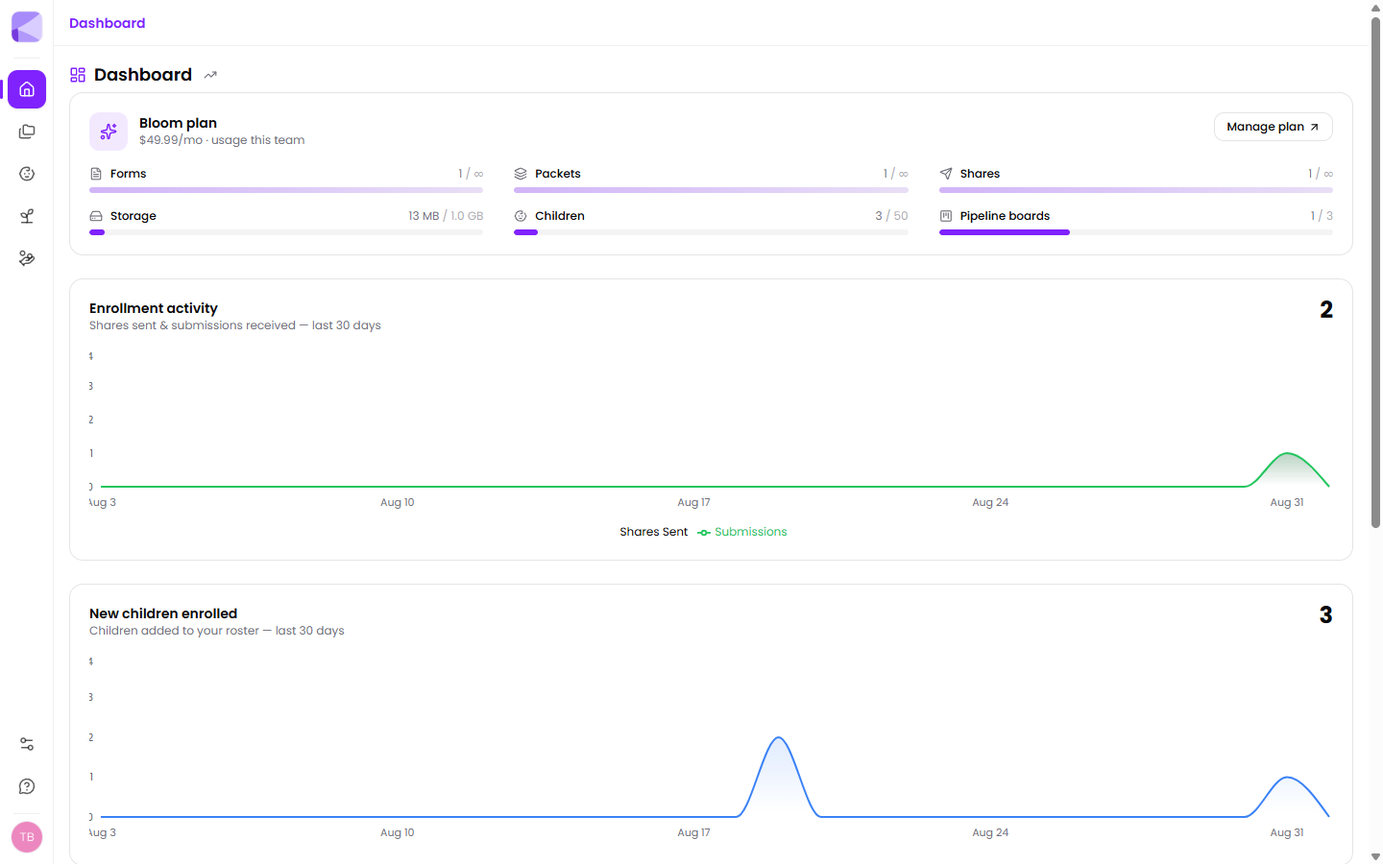
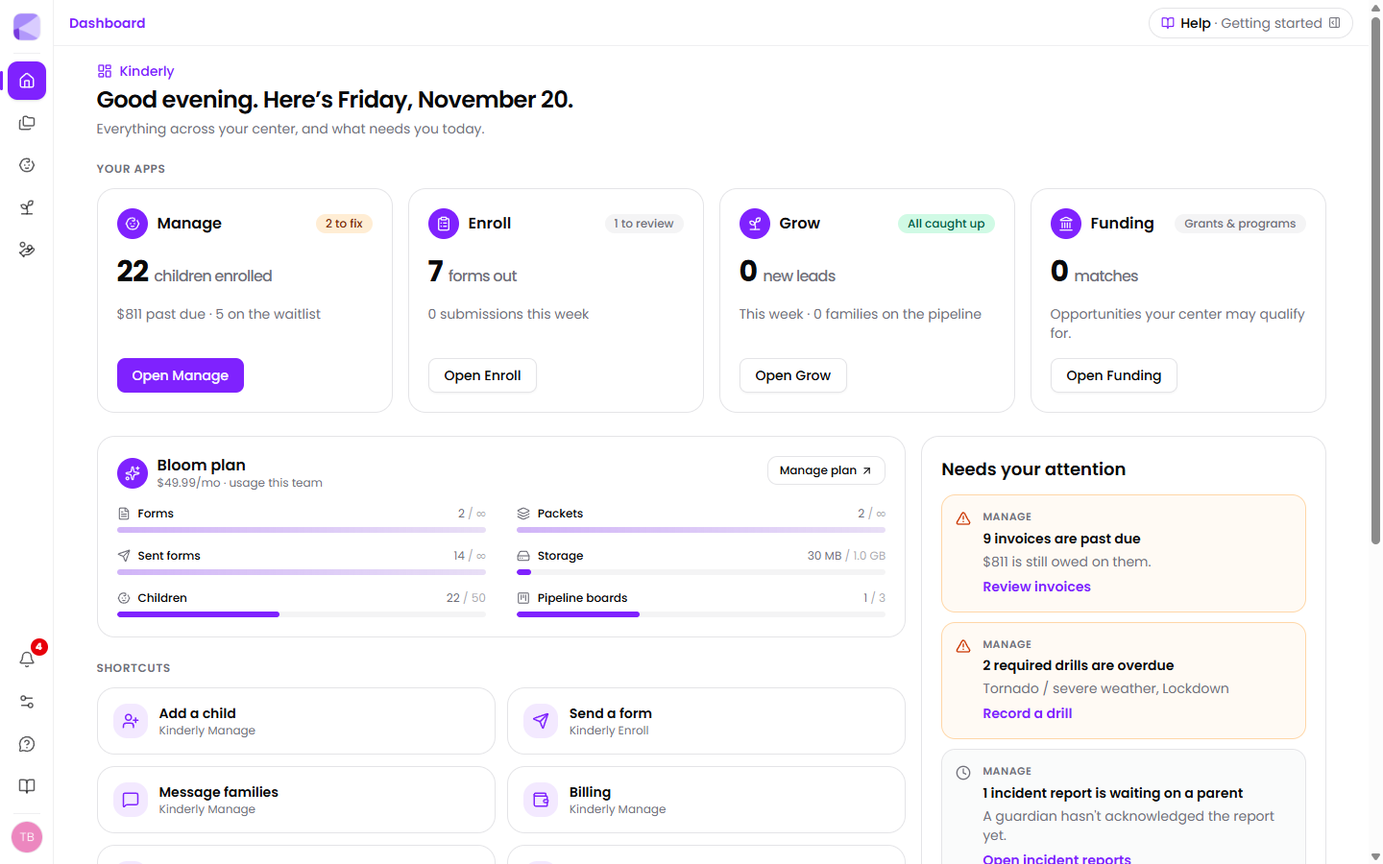
Add documentation for Facebook Page and Google Business Profile integrations
- Created a new document for Facebook Page integration detailing connection steps, posting guidelines, and troubleshooting tips.
- Added a new document for Google Business Profile integration outlining setup instructions, syncing details, and analytics insights.

diff --git a/src/content/docs/grow/analytics.md b/src/content/docs/grow/analytics.md
@@ -26,6 +26,45 @@ sidebar:
 
 **Review with Ellie** asks the assistant to interpret the numbers rather than leaving you to read charts.
 
+## Where families come from
+
+Page views tell you people visited. **Where families come from** tells you which marketing produced enrolled children, and what each one cost.
+
+![Where families come from: families enrolled, their yearly tuition, ad spend and cost per enrollment, broken down by channel](../../../assets/screenshots/grow-lead-sources.png)
+
+For each channel (Google Ads, Facebook / Instagram ads, Google search, Google Business Profile, child care directories, email, print and QR codes, events, word of mouth and more) it counts:
+
+- **Form visits**: families who opened one of your Kinderly forms
+- **Sent**: those who submitted it
+- **Waitlisted**: families added to your [waitlist](/manage/waitlist/) from that channel
+- **Enrolled**: children enrolled from it
+- **Yearly tuition**: what those enrollments bring in a year, from each room's seat value (see [Waitlist → What an open seat costs](/manage/waitlist/#what-an-open-seat-costs))
+- **Spend** and **Per enrollment**: once you enter what you spent
+
+Kinderly tracks a family from their first visit. It reads the link they arrived on (its UTM tags or ad click) or the site that sent them, and keeps that source with them through the form, the waitlist and enrollment. Families are tracked when they reach a form through:
+
+- your **Grow site** (any button or Kinderly form section that opens a form)
+- the **embed code** on your own website, or a **tracked link** (both on the form's page under Sent Forms, see [Putting a form on your website](/shares/sending/#putting-a-form-on-your-website))
+- a waitlist family you tagged with **How did they hear about you?** when adding them by hand
+
+Families who reached you some other way, such as an emailed link or a walk-in nobody tagged, aren't counted. The card tells you how many enrolled children had no tracked source.
+
+**Campaigns** lists the campaign names on your tracked links and ads (the `utm_campaign` tag) with their visits, waitlist families and enrollments, so you can compare one ad or flyer against another.
+
+### Entering ad spend
+
+Choose **Ad spend**, pick a month, and type what you spent on each channel. Kinderly divides it by the children enrolled from that channel. Enter 0 to clear a month.
+
+![The ad spend dialog: a month picker and a dollar amount for each paid channel](../../../assets/screenshots/grow-ad-spend.png)
+
+:::tip[Cost per enrollment beats cost per click]
+An ad that costs $4 a click and enrolls nobody is worse than one that costs $12 a click and fills an infant seat worth $15,000 a year. This is the number to move budget on.
+:::
+
+## Google Business Profile
+
+With [Google Business Profile](/integrations/google-business/) connected, a card shows how often your listing was seen on Google Search and Maps, and how many people called, clicked through to your website or asked for directions. Without it, the card links you to connect it.
+
 ## What to actually look at
 
 **Click-through rate** is the one that matters. Page views tell you people arrived; CTR tells you the page persuaded them to do something. A page with high views and low CTR is being found and then failing.
@@ -46,7 +85,7 @@ A center's site might get a few dozen visits a week. At that volume one afternoo
 
 ## Daily digest email
 
-To get yesterday's numbers without opening Kinderly, turn on the **Daily digest email** under [Grow → Settings](/grow/settings/#daily-digest-email). Each morning everyone on your team gets an email with the site's visits, top pages, button clicks and where visitors came from. It's off until you turn it on, and you can switch it off the same way.
+To get yesterday's numbers without opening Kinderly, turn on the **Daily digest email** under [Grow → Settings](/grow/settings/#daily-digest-email). Each morning everyone on your team gets an email with the site's visits, top pages, button clicks and where visitors came from, plus any open seats and what they're worth a month. It's off until you turn it on, and you can switch it off the same way.
 
 ## Plan availability
 

diff --git a/src/content/docs/integrations/google-business.md b/src/content/docs/integrations/google-business.md
@@ -1,0 +1,64 @@
+---
+title: Google Business Profile
+description: Keep your Google Search and Maps listing in step with Kinderly, post updates from your Center Feed, and see how families find you on Google.
+sidebar:
+  order: 4
+---
+
+:::note[Coming soon]
+This connection is waiting on Google's approval. Until then, its card under **Manage → Settings → Integrations** and on **Grow → Analytics** says **Coming soon**. Everything below describes how it will work.
+:::
+
+![The Google Business Profile card under Settings → Integrations, marked Coming soon](../../../assets/screenshots/integrations-google-business.png)
+
+Most families look you up on Google before anything else, and the card they see there (hours, phone, website, recent updates) is your **Google Business Profile**. Connect it to Kinderly and you keep one copy of those details instead of two.
+
+## What stays in step
+
+| From Kinderly | On your Business Profile |
+|---|---|
+| Open and close times and operating days, from **Manage → Settings** | **Hours** |
+| Your center's contact phone | **Phone** |
+| Your published [Grow site](/grow/sites/) | **Website** |
+| Posts you mark **Share to Google** in the [Center Feed](/manage/feed/#sharing-to-google) | **Updates** (events show as event updates with their date and time) |
+| A description you write on the settings card (optional) | **Description** |
+
+Each one can be switched off. Kinderly only sends what changed since the last sync.
+
+The website link is tagged so families who click it from Google are counted as **Google Business Profile** in [Grow → Analytics → Where families come from](/grow/analytics/#where-families-come-from).
+
+:::note[What Kinderly leaves alone]
+- **Your address.** Changing an address can send a listing back through Google's verification and take it offline for days, so edit it on Google yourself.
+- **Reviews.** Kinderly doesn't read or reply to them.
+- **Photos on updates**, unless you turn on **Include post photos**. A Business Profile is public, and center posts often show children. Only turn it on if your photo consent covers it.
+:::
+
+## Setting it up
+
+Go to **Manage → Settings → Integrations → Google Business Profile**.
+
+1. **Connect Google.** Sign in with the Google account that manages your listing and allow Kinderly to manage it.
+2. **Choose your listing.** If that account manages several, pick the one for this center.
+3. **Choose what to sync**, and add a description if you want Kinderly to keep it.
+4. **Save and turn on.**
+
+Kinderly syncs every night. **Sync now** sends changes straight away, and **When to sync → Only when I click Sync now** stops the nightly run. **Turn off** pauses syncing and keeps your settings. **Disconnect** forgets the sign-in. Updates already on Google stay there.
+
+Only posts written after you first choose a listing can be shared, so turning this on never pushes your whole post history to Google.
+
+## Seeing how families find you
+
+Once connected, [Grow → Analytics](/grow/analytics/#google-business-profile) shows how often your listing was seen on Google Search and on Maps, and how many people called, clicked through to your website or asked for directions. Google's numbers run about three days behind.
+
+## If something goes wrong
+
+- **"This Kinderly environment hasn't been granted Google Business Profile API access yet."** Google has to approve every app that manages Business Profiles. Until Kinderly's approval is in place, connecting works but syncing doesn't. Nothing is wrong on your side.
+- **"This Google account doesn't manage any Business Profiles."** You signed in with a different Google account than the one that owns the listing. Disconnect, then connect again with the right one.
+- **"Google refused the saved sign-in."** Someone removed Kinderly's access in the Google account. Disconnect and connect again.
+
+Failed syncs also show in **Integration health** on the same page and raise an **Integrations** notification.
+
+## Next
+
+- [Center Feed](/manage/feed/) — writing the posts you share.
+- [Analytics](/grow/analytics/) — where families come from.

diff --git a/src/content/docs/manage/feed.md b/src/content/docs/manage/feed.md
@@ -18,13 +18,35 @@ The **Center Feed** is what families see in the [Parents app](/mobile/parent-app
 | **Events** | Something happening at a date and time |
 | **Closures** | Days you're shut |
 
-Filter tabs at the top let you view one type at a time.
+Filter tabs above the posts let you view one type at a time.
+
+The column on the right shows what’s **coming up**: the next events and closures, with a repeating event listed once at its next date.
 
 ## Creating a post
 
-**New Post** opens the composer. Posts take **photos and video** — up to 20 attachments each, 200 MB per clip. Families see video play inline, with a still frame while it loads.
+Click **Share something with families…** at the top of the feed, or **Create post**, to open the composer. The **Photo/video**, **Event**, **Announcement** and **Closure** buttons under it open the composer with that type already picked. To edit, pin or delete a post, use the buttons along its bottom or the **⋯** menu in its corner. **Share** lists the places you can send it. Posts take **photos and video** — up to 20 attachments each, 200 MB per clip. Families see video play inline, with a still frame while it loads.
 
 Staff can also post straight from the [Teachers app](/mobile/teacher-app/).
+
+## Sharing to Google
+
+With [Google Business Profile](/integrations/google-business/) connected, the composer has a **Share to Google** switch. A post with it on is posted that night as an update on your Google listing, and events appear as event updates with their date and time. Editing the post updates it on Google. Turning the switch off or archiving the post takes it down.
+
+Your Business Profile is public, so keep posts meant only for current families off it.
+
+## Posting to your Facebook Page
+
+With your [Facebook Page](/integrations/facebook-page/) connected, the composer has a **Post to Facebook** switch, and an older post can go there from **Share → Post to** *your Page*. Posts on your Page show **On Facebook** in the feed. Editing or deleting a post here does the same on Facebook.
+
+## Sharing to a Facebook group
+
+Many centers keep a parents’ group on Facebook. Click **Add your parents’ group** in the **Facebook** card on the right of the feed, and paste the group’s link (copy it from your browser while you’re in the group). After that, **Share → Share to a Facebook group** on any post copies its text and opens your group in a new tab: paste it in, add photos if you want, and post. Kinderly also offers **Share to Facebook group** right after you publish.
+
+Facebook doesn’t let any app post into groups, so you do that last step yourself. (Business Pages are different: see above.) The group link is remembered on the computer you added it from.
+
+:::caution[Photos of children]
+Only share children’s photos to Facebook when their families have agreed, even in a private group.
+:::
 
 ## Pinning
 

diff --git a/src/content/docs/integrations/facebook-page.md b/src/content/docs/integrations/facebook-page.md
@@ -1,0 +1,50 @@
+---
+title: Facebook Page
+description: Post Center Feed posts to your center's Facebook business Page as you publish them.
+sidebar:
+  order: 5
+---
+
+Most centers have a business Page on Facebook, and it's often where families look first. Connect it and you can send a [Center Feed](/manage/feed/) post to your Page while you publish it, instead of typing it twice.
+
+Nothing goes to Facebook on its own. You choose each post.
+
+## Connecting your Page
+
+1. Go to **Manage → Settings → Integrations** and find **Facebook Page**.
+2. Click **Connect Facebook** and sign in with a Facebook account that manages your center's Page.
+3. When Facebook asks which Pages Kinderly can use, tick your center's Page and allow posting.
+4. Back in Kinderly, choose the Page and click **Save and turn on**.
+
+![The Facebook Page card once connected: the Page's name, Open, Test connection, Choose a different Page, Turn off and Disconnect](../../../assets/screenshots/integrations-facebook-page.png)
+
+The account you connect needs permission to create posts on the Page. If the Page is greyed out in the list, ask one of the Page's admins to give you that access on Facebook.
+
+## Posting
+
+- **New posts:** turn on **Post to Facebook** in the composer. The post goes to your Page as soon as you publish. If it has photos, **Include photos** lets you choose whether they go too.
+- **Older posts:** use **Share → Post to** *your Page* on the post.
+
+A post on your Page shows **On Facebook** in the feed, with a link to it.
+
+- **Editing** the text in Kinderly updates it on Facebook. Photos on Facebook can't be changed after posting.
+- **Deleting** a post in Kinderly deletes it from your Page too.
+- **Videos** aren't sent. They stay in Kinderly; only photos go to Facebook.
+- **Recurring events** can't be posted to Facebook. One post per date would flood your Page.
+
+:::caution[Your Page is public]
+Anyone can see your business Page. Only include photos of children when their families have agreed.
+:::
+
+## Facebook groups
+
+Facebook doesn't let apps post into groups. That applies to every app, not just Kinderly. For a parents' group, use **Share → Share to a Facebook group** on a post. Kinderly copies the post and opens your group so you can paste it in. See [Sharing to a Facebook group](/manage/feed/#sharing-to-a-facebook-group).
+
+## If posting stops working
+
+Facebook can end Kinderly's access if the person who connected changes their Facebook password, loses their role on the Page, or removes Kinderly in their Facebook settings. A post then shows an error saying to reconnect. Go to **Settings → Integrations → Facebook Page**, click **Disconnect**, then connect again.
+
+## Next
+
+- [Feed](/manage/feed/): writing and managing posts.
+- [Google Business Profile](/integrations/google-business/): post updates to Google too.

diff --git a/src/content/docs/manage/waitlist.md b/src/content/docs/manage/waitlist.md
@@ -19,6 +19,20 @@ Give each classroom a **Licensed capacity** on its **Classrooms** page. The wait
 
 Click a room's card to see only the families waiting for it.
 
+### What an open seat costs
+
+Each room's card also shows what one seat brings in a month. Set it yourself with **Monthly tuition for one seat** on the classroom's page, or leave that blank and Kinderly estimates it from the last 90 days of invoices: the typical recurring tuition per child in that room. Registration fees, late fees and one-off charges don't count.
+
+When seats are open, a banner adds up what they're costing you each month.
+
+### Part-time openings
+
+A room can be full by headcount and still have room on some days, when some children only come part of the week. If the children in a room have [schedules](/manage/scheduling/), a full room's card shows the days that still have a spot (for example, *Part-time: Tue, Thu open*).
+
+### Open seats nobody is waiting for
+
+When a seat is open, or opens within about six weeks, and no family on the list wants that room (or any room), you get a **Waitlist** notification. That's a seat to market: add an [Openings section](/grow/page-sections/#manage) to your Grow site, or point an ad at your waitlist form. The notification clears once a family is waiting for the room.
+
 ## Adding families
 
 Choose **Add family**. Only the child's name and birth date (or due date, if they're expecting), the parent's first name and an email or phone that works are needed. The parent's last name is taken from the child's if you leave it blank.
@@ -31,6 +45,8 @@ As you fill it in, Kinderly:
 - shows where the family will land in line for the room you chose, and moves them up if you give them priority. Siblings of enrolled children and staff families still get priority automatically when you add them.
 
 Start-date shortcuts cover *As soon as possible*, *1st of next month* and *Next fall*.
+
+**How did they hear about you?** records where a family who phoned or walked in came from. It counts toward [Grow → Analytics → Where families come from](/grow/analytics/#where-families-come-from). Families who join through an online form have their source recorded automatically, and the **Joined** column shows it.
 
 Families can also add themselves. Build an online waitlist form and add an **Add to Waitlist** step to its packet (see [Actions](/actions/overview/)). Each completed form puts the family on the list, matched to a classroom by name. Submitting the form twice doesn't add the family twice.
 

diff --git a/src/content/docs/getting-started/welcome.md b/src/content/docs/getting-started/welcome.md
@@ -26,15 +26,20 @@ Enroll, Manage and Grow are on every plan including the free one. See [What you 
 
 ## The dashboard
 
-Signing in lands you on the dashboard: your plan and how much of it you're using, enrollment activity, and new children over the last 30 days.
+Signing in lands you on the dashboard. It has a card for each app (Manage, Enroll, Grow and Funding) with its headline number and a button into it. Beside them is **Needs your attention**, which collects everything across your center that needs someone to act: past-due invoices, overdue drills, expiring certifications, forms stuck with families, follow-ups past their date. Each row says which app it came from and links straight to the fix. When nothing needs you, it says you're all caught up.
 
-![The Kinderly dashboard showing plan usage and activity charts](../../../assets/screenshots/dashboard.png)
+![The Kinderly dashboard with a card per app and the Needs your attention list](../../../assets/screenshots/dashboard.png)
 
-The usage bars are the quickest way to see where you stand — children against your plan's cap, document storage, forms, packets, shares and pipeline boards.
+Below that are shortcuts to the screens people open most, your plan's usage bars and any [pinned reports](/manage/reports/). The usage bars are the quickest way to see where you stand: children against your plan's cap, document storage, forms, packets, shares and pipeline boards.
 
-Each product also has its own overview. Enroll's shows what you've built, what you've sent, and your most recent shares:
+Each app also has its own home page laid out the same way, with cards at the top, the day's detail in the middle, its own **Needs your attention** list and shortcuts:
 
-![The Enroll overview showing counts, activity charts and recent shares](../../../assets/screenshots/enroll-overview.png)
+- **Manage**: children here today, staff clocked in, past-due billing and the waitlist, with every room checked against its ratio for who's signed in right now.
+- **Enroll**: forms out with families, what came back this week and your library, with recent submissions and sends.
+- **Grow**: your website's status, new leads and visitors this week, and tours and follow-ups coming up.
+- **Funding**: what you qualify for, your open applications and your profile, with grants closing soon.
+
+![The Enroll overview showing forms out, submissions this week and recent sends](../../../assets/screenshots/enroll-overview.png)
 
 ## Where to start
 

diff --git a/src/content/docs/manage/overview.md b/src/content/docs/manage/overview.md
@@ -7,7 +7,22 @@ sidebar:
 
 Where [Enroll](/forms/overview/) handles getting families in, **Manage** is everything after: who's in your care, who looks after them, when they're here, what you charge, and what you have to report.
 
-The left-hand menu groups it into five areas.
+## The Manage home page
+
+**Home**, at the top of the menu, is the day at your center on one screen.
+
+![The Manage home page: cards for who's here, staff, billing and the waitlist, today's rooms, and the Needs your attention list](../../../assets/screenshots/manage-overview.png)
+
+- **At a glance**: four cards. **Here today** (children signed in out of those enrolled, with absences and late arrivals), **Staff working** (who's clocked in and who's off), **Billing** (what's past due, across how many invoices) and **Waitlist** (families waiting, offers out and accepted). Each has a button straight into that screen.
+- **Today's rooms**: every classroom with the children signed in and the staff its ratio needs for them right now, so a room that's short shows up before anyone has to count heads.
+- **Out today** and **Tours & follow-ups**: who's absent, and the tours and follow-ups on your [pipeline](/grow/pipeline/) coming up.
+- **Needs your attention**: the things that need someone to act. Past-due invoices, overdue or upcoming [drills](/manage/safety/), incident reports waiting on a parent or on licensing, staff certifications expired or expiring, children with no immunization records, children late and not marked absent, waitlist offers accepted or about to expire. Each row links to the fix. When there's nothing, it says you're all caught up.
+- **Your center**: counts of children, guardians, staff, classrooms and programs, each a link to its list.
+- **Pinned reports**: any [reports you've pinned](/manage/reports/), so the numbers you check every week are already open.
+
+## The menu
+
+The left-hand menu groups the rest into five areas.
 
 ![The Children list in Kinderly Manage, showing the section navigation](../../../assets/screenshots/manage-children-list.png)
 

diff --git a/src/content/docs/grow/page-sections.md b/src/content/docs/grow/page-sections.md
@@ -67,11 +67,14 @@ This is what turns a brochure site into something that generates inquiries. See 
 | Section | What it's for |
 |---|---|
 | **Center Feed** | Pulls in posts from your [Manage center feed](/manage/feed/) — pinned first, then newest. Included on **Bloom** and above |
+| **Openings** | Shows which rooms are enrolling now, which open soon (with the month) and which have a waitlist, kept up to date from your classrooms and [waitlist](/manage/waitlist/). Seat counts only show if you turn on **Show how many spots are open**. Point its button at your waitlist form. Included on **Bloom** and above |
 | **AI assistant** | A chat bubble in the bottom-right corner that answers visitors' questions about your center. Included on **Bloom** and above |
 
 The AI assistant only answers from what you let it share: your hours, closing dates, contact details, meal times, published programs and provider number (each has its own switch), plus anything you write under **What else should it know?**. That text is never shown on the page. Questions it has no answer for get pointed back to you, and it won't talk about anything other than your center. Its answers come out of the same allowance as Ellie's.
 
-If your plan doesn't include the Center Feed or the AI assistant, they still show in the editor preview with an upgrade note, but they're left off your published site.
+Openings only lists rooms with a licensed capacity, and never shows anything about individual children.
+
+If your plan doesn't include the Center Feed, Openings or the AI assistant, they still show in the editor preview with an upgrade note, but they're left off your published site.
 
 :::tip[The feed section keeps your site alive without extra work]
 A site that hasn't changed in a year looks abandoned. Because this section pulls from the feed you're already posting to for current families, your public site stays current as a side effect.

diff --git a/src/content/docs/shares/sending.md b/src/content/docs/shares/sending.md
@@ -52,6 +52,17 @@ A unique link needs no PIN, and it isn't tied to one recipient. Post it on your 
 
 Each person's copy is tied to the browser they opened it in, so they can leave and come back on the same device to finish. On a different phone or computer they start a fresh copy. See the warning in [Shares overview](/shares/overview/#unique-links).
 
+### Putting a form on your website
+
+A unique link's page (under **Sent Forms**) has a **Put it on your website** card with two things:
+
+- **Embed code.** Paste it into an HTML or "embed code" block on Wix, Squarespace, WordPress or any site builder. The form appears on your page and grows to fit. On a Kinderly Grow site, use the [Kinderly form section](/grow/page-sections/#forms) instead.
+- **Tracked link.** Choose where you'll post it (a Facebook post, an ad, a flyer's QR code, a newsletter, an event, a directory listing) and, if you like, a campaign name. Use that link instead of the plain one.
+
+![The Put it on your website card: embed code with a Copy code button, and a tracked link built for a Facebook post](../../../assets/screenshots/share-embed-card.png)
+
+Families who come in through either are counted in [Grow → Analytics → Where families come from](/grow/analytics/#where-families-come-from), all the way to enrollment if the form adds them to your waitlist.
+
 ### Sending to a group of parents
 
 Choose **Group of parents**, then pick how many copies go out:

diff --git a/src/content/docs/funding/overview.md b/src/content/docs/funding/overview.md
@@ -11,11 +11,14 @@ The Funding Center is built for both problems.
 
 ## What it does
 
+- **Overview**: the Funding Center's home page. It shows how many opportunities you qualify for, your open applications and how complete your profile is, the grants you qualify for that close in the next 45 days, and a **Needs your attention** list: tracked deadlines in the next two weeks, reports coming due, documents that have expired or are missing from an application.
 - **[Opportunities](/funding/opportunities/)** — grants matched to your center, not a general list you have to sift.
 - **[Applications](/funding/applications/)** — track what you're going for, with each one's deadline, document checklist and reporting requirements together.
 - **[Calendar](/funding/calendar/)** — deadlines, reporting dates and document expiries in one view.
 - **[Documents](/funding/documents/)** — upload the standard paperwork once; it attaches to every application that asks.
 - **[Profile](/funding/profile/)** — the answers that decide what you match.
+
+![The Funding Center overview: opportunities you qualify for, open applications, profile completeness, grants closing soon and what needs your attention](../../../assets/screenshots/funding-overview.png)
 
 ## Start with the profile
 

diff --git a/src/content/docs/grow/overview.md b/src/content/docs/grow/overview.md
@@ -7,6 +7,18 @@ sidebar:
 
 Where [Enroll](/forms/overview/) handles the paperwork and [Manage](/manage/overview/) runs the day, **Grow** is about filling your places: being found, making a good impression, and tracking prospective families until they enrol.
 
+## The Grow home page
+
+**Overview** opens on your website's address, with **Open site** and **Edit pages** beside it.
+
+![The Grow home page: your website, new leads and visitors this week, what's coming up, recent pages and shortcuts](../../../assets/screenshots/grow-overview.png)
+
+- **This week**: three cards. **Your website** (live or not, how many pages, when it was last edited), **New leads** (inquiries in the last 7 days and families in progress on the pipeline) and **Visitors** (page views and button clicks over the last 7 days).
+- **Coming up**: tours and follow-ups due in the next 7 days.
+- **Recent pages**: the pages you edited last.
+- **Needs your attention**: a site that isn't live yet, changes you haven't published, a custom domain that isn't connecting or is still being set up, and families past their follow-up date.
+- **Shortcuts** to pages, the pipeline, tours, media, theme, analytics, site settings and the [waitlist](/manage/waitlist/).
+
 ## What's in it
 
 **Content**

diff --git a/src/content/docs/getting-started/notifications.md b/src/content/docs/getting-started/notifications.md
@@ -44,7 +44,7 @@ Notifications stay in the bell for 60 days.
 | **Parent messages** | A guardian replies to a conversation in the parent app. A busy conversation stays as one notification showing the latest message. |
 | **Forms submitted** | Someone completes a form you shared with them. |
 | **New leads** | A new inquiry reaches your pipeline from a form, your website, or a walk-in taken at the front desk in the staff app. Leads you add to the pipeline by hand aren't announced. |
-| **Waitlist** | A seat is open in a room with families waiting, a family accepted or declined a seat you offered, or an offer expired. See [Waitlist](/manage/waitlist/). |
+| **Waitlist** | A seat is open in a room with families waiting, a seat is open or opening soon with nobody waiting for it, a family accepted or declined a seat you offered, or an offer expired. See [Waitlist](/manage/waitlist/). |
 | **Scanned documents** | Ellie finished reading a scanned document and it's ready to review, or she couldn't read it and says why. One notification per scan, updated if you try again. See [Scan a document](/manage/scan-documents/). |
 
 Payments you record yourself, such as cash, a check, or account credit, don't create a notification, because you already know about them.
